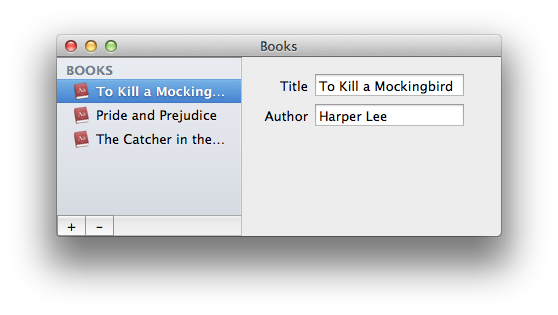
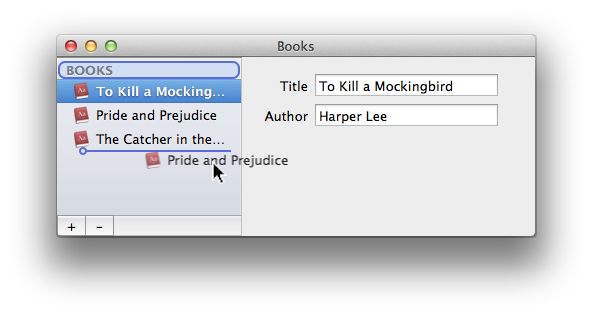
Enable Drag and Drop support for OutlineView

diff --git a/OutlineView/OutlineView/AppDelegate.m b/OutlineView/OutlineView/AppDelegate.m
@@ -21,12 +21,16 @@
 - (void)applicationDidFinishLaunching:(NSNotification *)aNotification
 {
     self.outlineView.delegate = self;
+    self.outlineView.dataSource = self;
     self.outlineView.floatsGroupRows = NO; // Prevent a sticky header
     [self addData];
     
      // Expand the first group and select the first item in the list
     [self.outlineView expandItem:[self.outlineView itemAtRow:0]];
     [self.outlineView selectRowIndexes:[NSIndexSet indexSetWithIndex:1] byExtendingSelection:NO];
+    
+    // Enable Drag and Drop
+    [self.outlineView registerForDraggedTypes: [NSArray arrayWithObject: @"public.text"]];
 }
 
 
@@ -86,6 +90,63 @@
 - (BOOL)outlineView:(NSOutlineView *)outlineView isGroupItem:(id)item{
     // This converts a group to a header which influences its style
     return [self isHeader:item];
+}
+
+
+#pragma mark - Drag & Drop
+
+- (id <NSPasteboardWriting>)outlineView:(NSOutlineView *)outlineView pasteboardWriterForItem:(id)item{
+    // No dragging if <some condition isn't met>
+    BOOL dragAllowed = YES;
+    if (!dragAllowed)  {
+        return nil;
+    }
+    
+    Book *book = (Book *)(((NSTreeNode *)item).representedObject);
+    NSString *identifier = book.title;
+    
+    NSPasteboardItem *pboardItem = [[NSPasteboardItem alloc] init];
+    [pboardItem setString:identifier forType: @"public.text"];
+   
+    return pboardItem;
+}
+
+
+- (NSDragOperation)outlineView:(NSOutlineView *)outlineView validateDrop:(id < NSDraggingInfo >)info proposedItem:(id)targetItem proposedChildIndex:(NSInteger)index{
+    
+    BOOL canDrag = index >= 0 && targetItem;
+
+    if (canDrag) {
+        return NSDragOperationMove;
+    }else {
+        return NSDragOperationNone;
+    }
+}
+
+
+- (BOOL)outlineView:(NSOutlineView *)outlineView acceptDrop:(id < NSDraggingInfo >)info item:(id)targetItem childIndex:(NSInteger)index{
+
+    NSPasteboard *p = [info draggingPasteboard];
+    NSString *title = [p stringForType:@"public.text"];
+    NSTreeNode *sourceNode;
+    
+    for(NSTreeNode *b in [targetItem childNodes]){
+        if ([[[b representedObject] title] isEqualToString:title]){
+            sourceNode = b;
+        }
+    }
+
+    if(!sourceNode){
+        // Not found
+        return NO;
+    }
+    
+    NSUInteger indexArr[] = {0,index};
+    NSIndexPath *toIndexPATH =[NSIndexPath indexPathWithIndexes:indexArr length:2];
+
+    [self.booksController moveNode:sourceNode toIndexPath:toIndexPATH];
+    
+    return YES;
 }
 
 @end

diff --git a/OutlineView/OutlineView/AppDelegate.h b/OutlineView/OutlineView/AppDelegate.h
@@ -7,7 +7,7 @@
 
 #import <Cocoa/Cocoa.h>
 
-@interface AppDelegate : NSObject <NSApplicationDelegate, NSOutlineViewDelegate>
+@interface AppDelegate : NSObject <NSApplicationDelegate, NSOutlineViewDelegate, NSOutlineViewDataSource>
 
 @property (assign) IBOutlet NSWindow *window;
 
